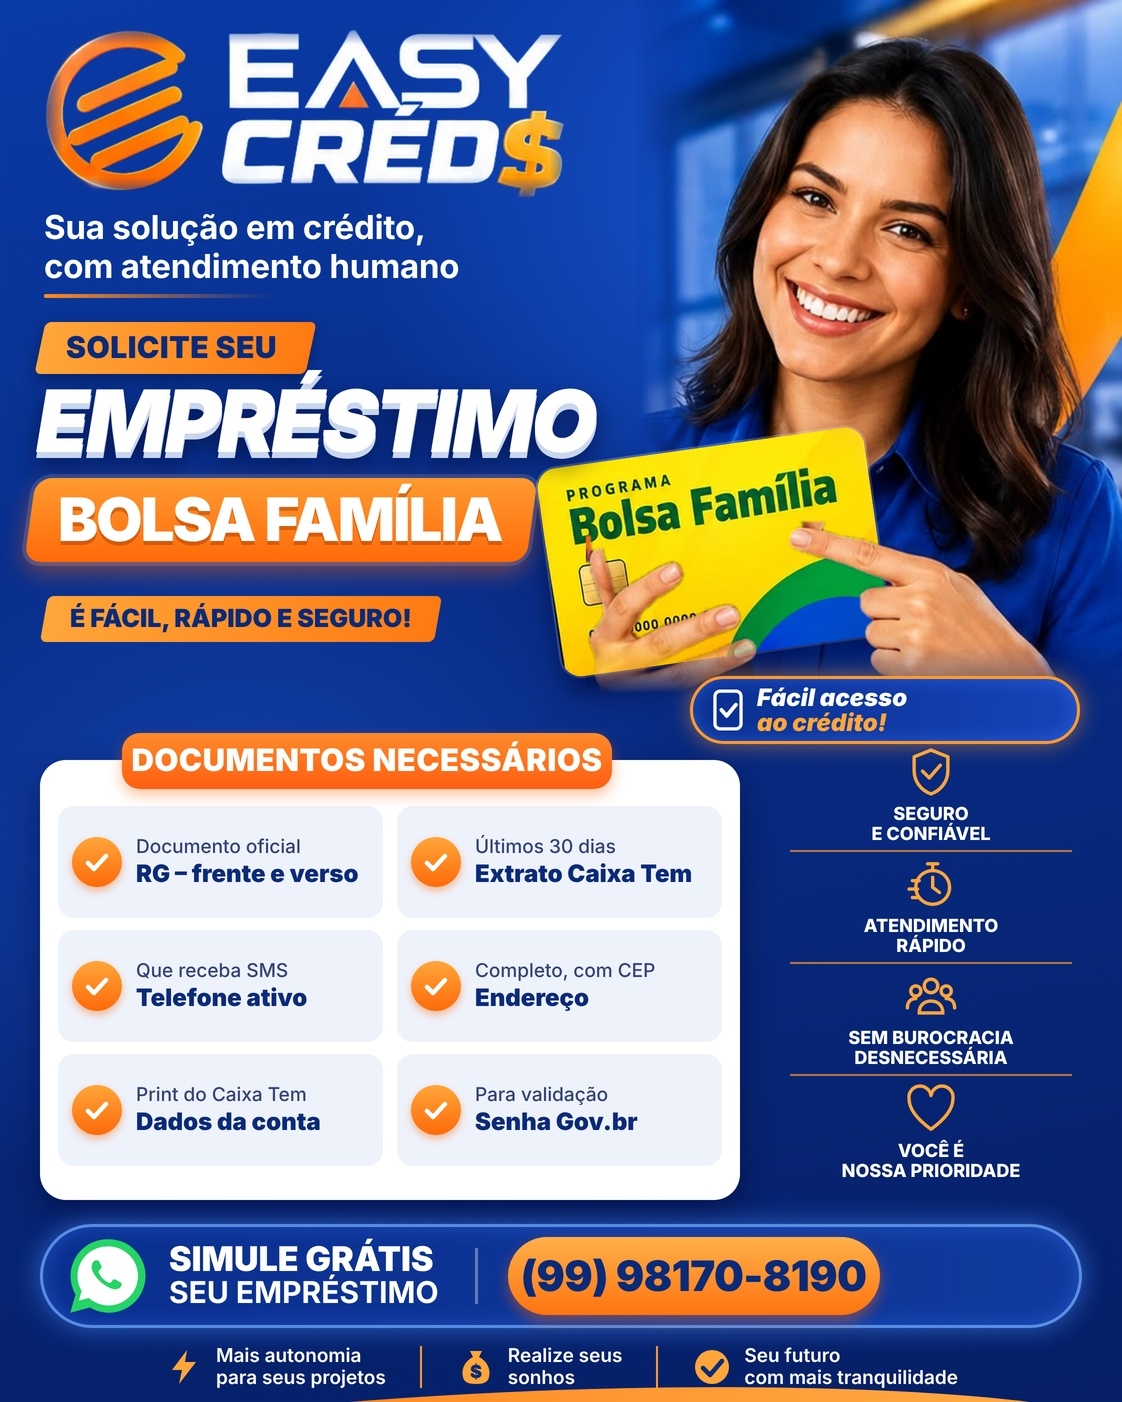
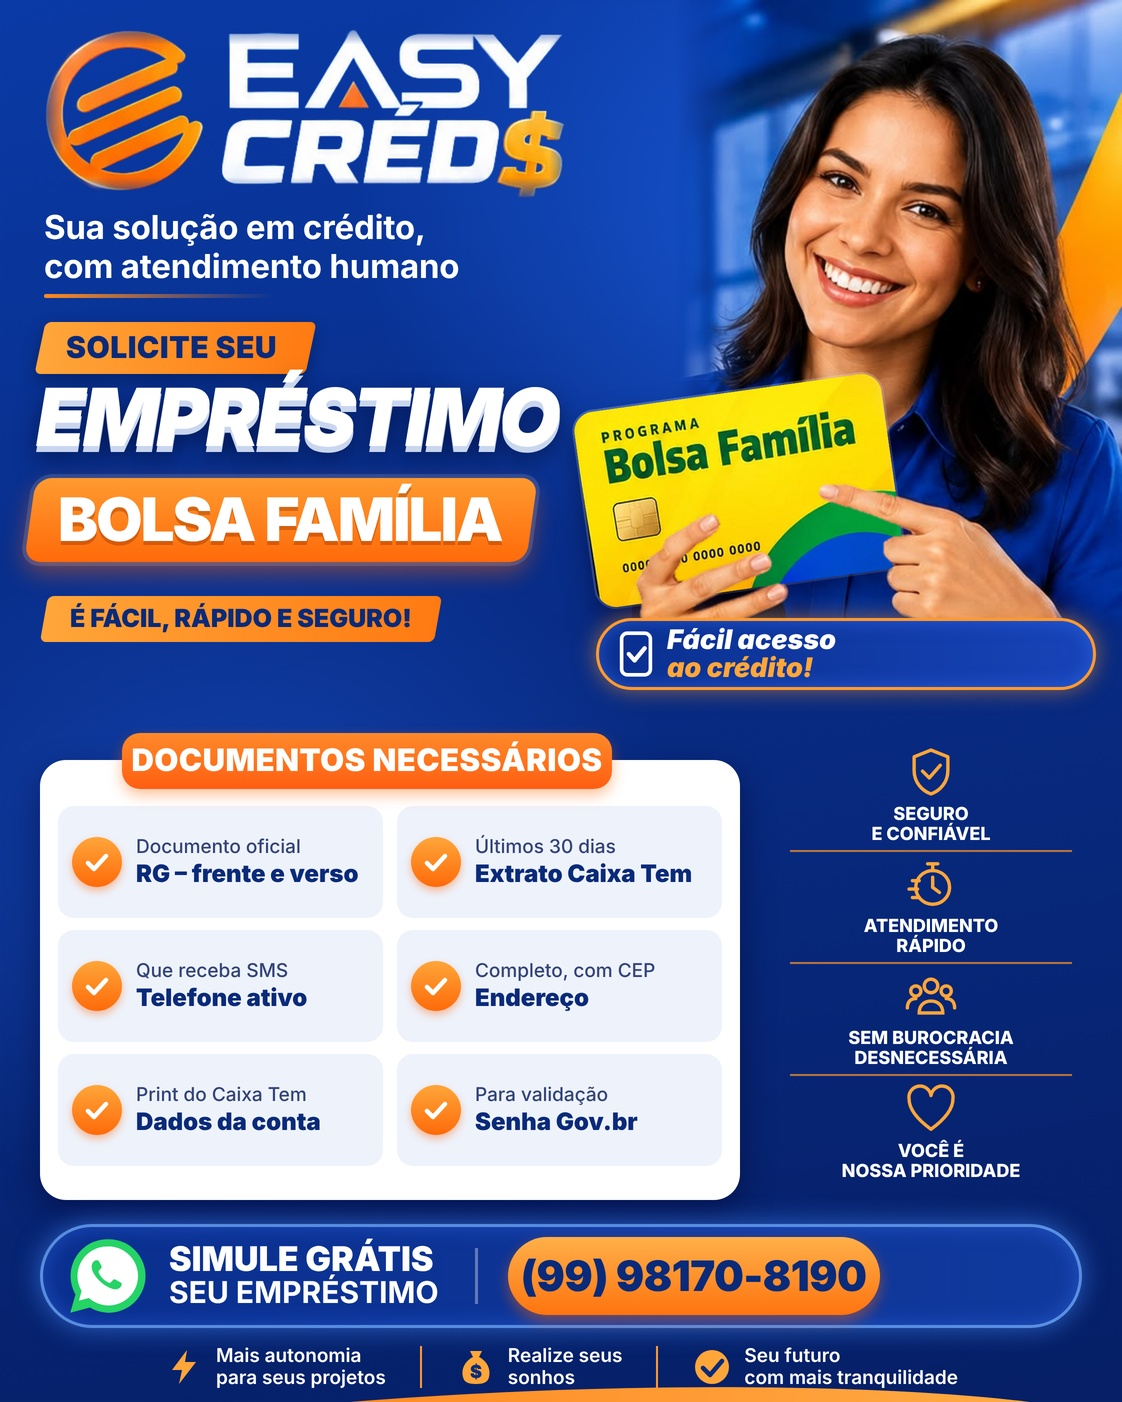
Fix hands overlapping the Bolsa Família card
Claude-Session: https://claude.ai/code/session_01628SCs86MQsSSCAYJir1oD

Changed region(s): [[0.0312, 0.0, 1.0, 0.5521]]

diff --git a/arte-easy-creds/fonte/page.html b/arte-easy-creds/fonte/page.html
@@ -7,15 +7,15 @@ body{width:1122px;height:1402px;position:relative;overflow:hidden;font-family:'I
 .logo{left:36px;top:18px;width:540px}
 .tag{left:44px;top:208px;font-size:33px;font-weight:700;line-height:1.18;letter-spacing:-.2px}
 .tag i{display:block;width:230px;height:4px;margin-top:8px;border-radius:4px;background:linear-gradient(90deg,#ff8a1f,rgba(255,138,31,0))}
-.woman{left:586px;top:0px;width:536px;height:693px}
+.woman{left:632px;top:0px;width:490px;height:632px}
 .woman>img{position:absolute;left:0;top:0;width:100%;height:100%}
-.card{position:absolute;width:330px;left:-38px;top:447px;transform:rotate(-8deg);border-radius:20px;overflow:hidden;
+.card{position:absolute;width:310px;left:-48px;top:392px;transform:rotate(-8deg);border-radius:20px;overflow:hidden;
  box-shadow:0 18px 30px rgba(0,0,40,.55),0 0 0 2px rgba(255,255,255,.25)}
 .card img{width:100%;display:block}
 .pre{left:40px;top:322px;transform:skewX(-12deg);background:linear-gradient(90deg,#ffa63a,#ff7a12);padding:8px 34px 8px 26px;border-radius:6px;
  font-size:30px;font-weight:900;color:#0a2a7a;letter-spacing:.5px;box-shadow:0 6px 16px rgba(0,0,0,.3)}
 .pre span{display:inline-block;transform:skewX(12deg)}
-.t1{left:36px;top:378px;font-size:86px;font-weight:900;font-style:italic;letter-spacing:-3.5px;line-height:1;white-space:nowrap;
+.t1{left:36px;top:378px;font-size:80px;font-weight:900;font-style:italic;letter-spacing:-3px;line-height:1;white-space:nowrap;
  text-shadow:0 6px 0 #c9d6ee,0 12px 24px rgba(0,0,30,.55)}
 .t2{left:30px;top:478px;transform:skewX(-8deg);padding:6px 30px 6px 28px;border-radius:16px;
  background:linear-gradient(180deg,#ff9a30,#ff6a0a);box-shadow:0 0 0 4px rgba(255,255,255,.12),0 10px 24px rgba(255,100,10,.45)}
@@ -23,9 +23,9 @@ body{width:1122px;height:1402px;position:relative;overflow:hidden;font-family:'I
 .strip{left:44px;top:596px;transform:skewX(-10deg);background:linear-gradient(90deg,#ffa63a,#ff7a12);padding:8px 26px;border-radius:6px;
  font-size:25px;font-weight:900;color:#0a2a7a;white-space:nowrap}
 .strip span{display:inline-block;transform:skewX(10deg)}
-.badge{left:690px;top:676px;width:390px;height:68px;border-radius:34px;background:linear-gradient(90deg,#0a2f8f,#1744b8);
+.badge{left:596px;top:618px;width:500px;height:72px;border-radius:36px;z-index:5;background:linear-gradient(90deg,#0a2f8f,#1744b8);
  border:3px solid #ff9a30;box-shadow:0 0 22px rgba(255,150,40,.55),inset 0 0 18px rgba(60,120,255,.5);display:flex;align-items:center;padding-left:20px;gap:14px}
-.badge .tx{font-size:24px;font-weight:900;font-style:italic;line-height:1.05}
+.badge .tx{font-size:27px;font-weight:900;font-style:italic;line-height:1.05}
 .badge .tx b{color:#ffa63a;display:block}
 .panel{left:40px;top:760px;width:700px;height:440px;background:#fff;border-radius:26px;box-shadow:0 14px 34px rgba(0,0,40,.45)}
 .ptag{left:122px;top:733px;width:490px;height:56px;border-radius:18px;background:linear-gradient(180deg,#ff8a2a,#ff5e12);
@@ -72,7 +72,7 @@ body{width:1122px;height:1402px;position:relative;overflow:hidden;font-family:'I
 <div class="abs strip"><span>É FÁCIL, RÁPIDO E SEGURO!</span></div>
 
 <div class="abs badge">
- <svg width="30" height="42" viewBox="0 0 46 64"><rect x="3" y="3" width="40" height="58" rx="8" fill="none" stroke="#fff" stroke-width="5"/><path d="M13 32l8 9 14-17" fill="none" stroke="#fff" stroke-width="6" stroke-linecap="round" stroke-linejoin="round"/></svg>
+ <svg width="34" height="46" viewBox="0 0 46 64"><rect x="3" y="3" width="40" height="58" rx="8" fill="none" stroke="#fff" stroke-width="5"/><path d="M13 32l8 9 14-17" fill="none" stroke="#fff" stroke-width="6" stroke-linecap="round" stroke-linejoin="round"/></svg>
  <div class="tx">Fácil acesso<b>ao crédito!</b></div>
 </div>
 

diff --git a/arte-easy-creds/fonte/prep.py b/arte-easy-creds/fonte/prep.py
@@ -1,0 +1,53 @@
+import numpy as np
+from PIL import Image, ImageDraw, ImageFilter
+S='/tmp/claude-0/-home-user-NexRural-Agricultura-Sustent-vel/f50a88ec-72b5-5c71-a883-5c59cc60590b/'
+A=S+'scratchpad/art/'
+one=Image.open(S+'images/1.jpg').convert('RGB')
+two=Image.open(S+'images/2.jpg').convert('RGB')
+
+# --- woman (from ref image 1): crop x 598..1024, y 0..550
+X0=598; W=426; H=550
+w=one.crop((X0,0,X0+W,H)).convert('RGBA')
+a=np.ones((H,W),dtype=np.float32)
+# bottom fade
+for y in range(H):
+    if y>525: a[y,:]=max(0,1-(y-525)/25)
+# left feather only above the hand zone
+for x in range(100):
+    a[:395,x]*=min(1,max(0,(x-38)/60))
+al=Image.fromarray((a*255).astype(np.uint8))
+w.putalpha(al); w.save(A+'woman.png')
+
+# --- hands overlay: skin pixels inside the two hand polygons
+rgb=np.array(one.crop((X0,0,X0+W,H))).astype(int)
+r,g,b=rgb[...,0],rgb[...,1],rgb[...,2]
+skin=((r>130)&(r>g+15)&(g>b-5)&(r-b>40)).astype(np.uint8)*255
+poly=Image.new('L',(W,H),0); d=ImageDraw.Draw(poly)
+d.polygon([(40,440),(150,424),(145,548),(4,548),(4,492),(26,478)],fill=255)           # holding hand (asset coords)
+d.polygon([(162,422),(426,422),(426,548),(162,548)],fill=255)       # pointing hand + back of hand
+m=Image.fromarray(skin).filter(ImageFilter.MaxFilter(5)).filter(ImageFilter.MinFilter(5))
+m=m.point(lambda v:255 if v>127 else 0).filter(ImageFilter.MinFilter(3))
+m=Image.fromarray((np.array(m)*(np.array(poly)>0)).astype(np.uint8)).filter(ImageFilter.GaussianBlur(0.7))
+m=m.point(lambda v:min(255,int(v*1.6)))
+h=w.copy(); h.putalpha(m); h.save(A+'hands.png')
+
+# --- card: perspective-flatten from image 2
+src=two.crop((620,40,1080,350))
+quad=(10,62, 35,300, 445,255, 405,8)   # TL, BL, BR, TR
+card=src.transform((880,560),Image.QUAD,quad,Image.BICUBIC).convert('RGBA')
+card.save(A+'card.png')
+
+# --- logo from image 1, feathered
+lg=one.crop((50,55,630,255)).convert('RGBA')
+Wl,Hl=lg.size; f=np.ones((Hl,Wl),np.float32)
+for i in range(28):
+    k=i/28
+    f[i,:]=np.minimum(f[i,:],k); f[Hl-1-i,:]=np.minimum(f[Hl-1-i,:],k)
+    f[:,i]=np.minimum(f[:,i],k); f[:,Wl-1-i]=np.minimum(f[:,Wl-1-i],k)
+lr=np.array(lg)[...,0].astype(np.float32)
+key=np.clip((lr-55)/75,0,1)
+lg.putalpha(Image.fromarray((np.maximum(key*f,0)*255).astype(np.uint8))); lg.save(A+'logo.png')
+
+# --- money from image 2 (optional)
+money=two.crop((690,1010,1122,1402)).convert('RGBA'); money.save(A+'money.png')
+print('ok')
